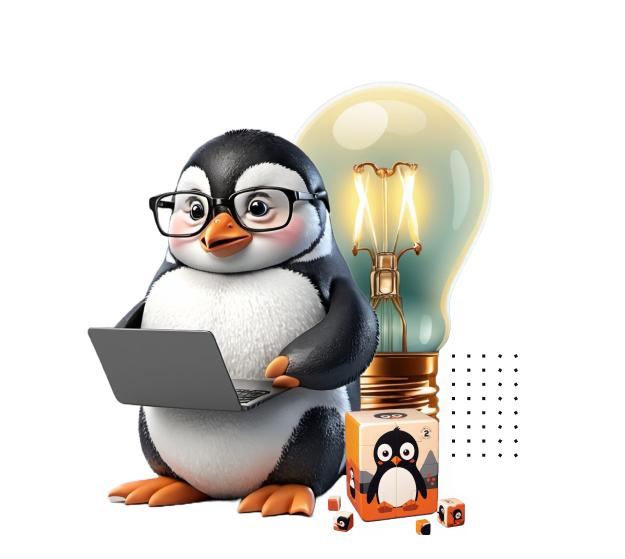
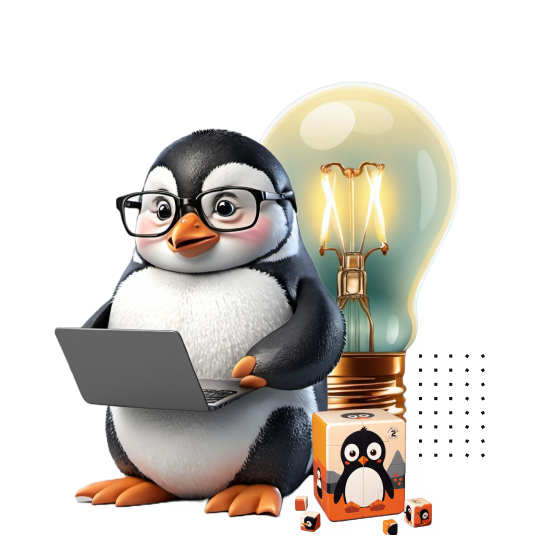
Fix hero image

diff --git a/index.html b/index.html
@@ -79,10 +79,10 @@
 									 width="600px"
 									 height="600px"
 									 class="m-auto w-[70vw] h-[70vw]
-										  -translate-y-2 rounded-full
-										  max-w-[600px] max-h-[600px]
-										  sm:-translate-y-8 lg:w-[30vw]
-										  lg:h-[30vw] xl:w-[40vw] xl:h-[40vw]">
+										  -translate-y-4 p-4 max-w-[600px]
+										  max-h-[600px] sm:-translate-y-8
+										  lg:w-[30vw] lg:h-[30vw] xl:w-[40vw]
+										  xl:h-[40vw]">
 							</div>
 						</div>
 					</section>
